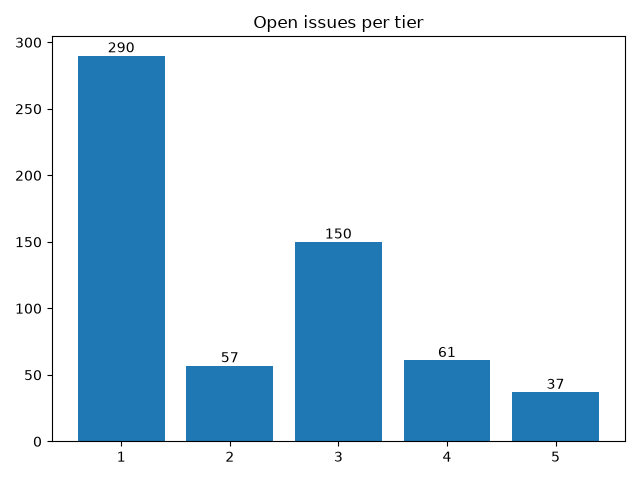
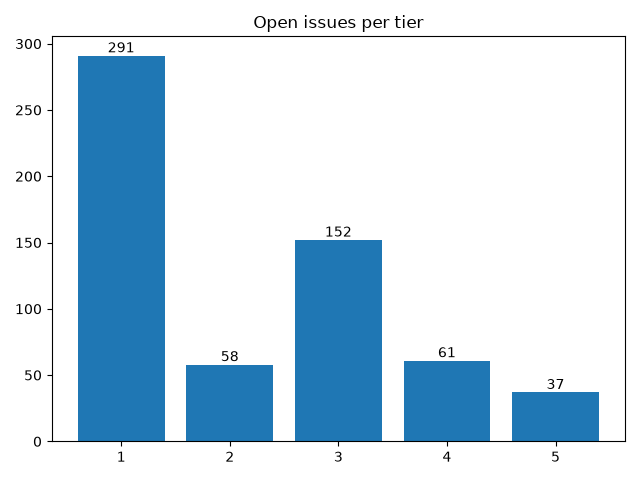
Apply automatic changes

diff --git a/docs/analytics.html b/docs/analytics.html
@@ -99,7 +99,7 @@ td .material-icons { display:inline-flex; vertical-align: top; font-size:1.1rem;
 						</tr>
 						<tr>
 							<td>Jul</td>
-							<td>4</td>
+							<td>8</td>
 							<td>4</td>
 						</tr>
 					</table>
@@ -130,15 +130,15 @@ td .material-icons { display:inline-flex; vertical-align: top; font-size:1.1rem;
 						</tr>
 						<tr>
 							<td>
-								<a href="http://github.com/notofonts/nastaliq/issues">nastaliq</a>
+								<a href="http://github.com/notofonts/arabic/issues">arabic</a>
 							</td>
 							<td>27</td>
 						</tr>
 						<tr>
 							<td>
-								<a href="http://github.com/notofonts/arabic/issues">arabic</a>
+								<a href="http://github.com/notofonts/nastaliq/issues">nastaliq</a>
 							</td>
-							<td>26</td>
+							<td>27</td>
 						</tr>
 						<tr>
 							<td>
@@ -156,7 +156,7 @@ td .material-icons { display:inline-flex; vertical-align: top; font-size:1.1rem;
 							<td>
 								<a href="http://github.com/notofonts/math/issues">math</a>
 							</td>
-							<td>16</td>
+							<td>17</td>
 						</tr>
 						<tr>
 							<td>
@@ -197,13 +197,13 @@ td .material-icons { display:inline-flex; vertical-align: top; font-size:1.1rem;
 				<tr>
 					<td>2</td>
 					<td>
-						<a href="http://github.com/notofonts/chakma/issues">chakma</a>,  						<a href="http://github.com/notofonts/dogra/issues">dogra</a>,  						<a href="http://github.com/notofonts/duployan/issues">duployan</a>,  						<a href="http://github.com/notofonts/georgian/issues">georgian</a>,  						<a href="http://github.com/notofonts/limbu/issues">limbu</a>,  						<a href="http://github.com/notofonts/mandaic/issues">mandaic</a>,  						<a href="http://github.com/notofonts/mongolian/issues">mongolian</a>,  						<a href="http://github.com/notofonts/old-hungarian-ui/issues">old-hungarian-ui</a>,  						<a href="http://github.com/notofonts/pau-cin-hau/issues">pau-cin-hau</a>,  						<a href="http://github.com/notofonts/tagalog/issues">tagalog</a>,  						<a href="http://github.com/notofonts/tamil/issues">tamil</a>,  						<a href="http://github.com/notofonts/toto/issues">toto</a>,  						<a href="http://github.com/notofonts/yi/issues">yi</a> 
+						<a href="http://github.com/notofonts/chakma/issues">chakma</a>,  						<a href="http://github.com/notofonts/dogra/issues">dogra</a>,  						<a href="http://github.com/notofonts/duployan/issues">duployan</a>,  						<a href="http://github.com/notofonts/limbu/issues">limbu</a>,  						<a href="http://github.com/notofonts/mandaic/issues">mandaic</a>,  						<a href="http://github.com/notofonts/mongolian/issues">mongolian</a>,  						<a href="http://github.com/notofonts/old-hungarian-ui/issues">old-hungarian-ui</a>,  						<a href="http://github.com/notofonts/pau-cin-hau/issues">pau-cin-hau</a>,  						<a href="http://github.com/notofonts/tagalog/issues">tagalog</a>,  						<a href="http://github.com/notofonts/tamil/issues">tamil</a>,  						<a href="http://github.com/notofonts/toto/issues">toto</a>,  						<a href="http://github.com/notofonts/yi/issues">yi</a> 
 					</td>
 				</tr>
 				<tr>
 					<td>3</td>
 					<td>
-						<a href="http://github.com/notofonts/ethiopic/issues">ethiopic</a>,  						<a href="http://github.com/notofonts/inscriptional-parthian/issues">inscriptional-parthian</a>,  						<a href="http://github.com/notofonts/kaithi/issues">kaithi</a>,  						<a href="http://github.com/notofonts/manichaean/issues">manichaean</a>,  						<a href="http://github.com/notofonts/oriya/issues">oriya</a>,  						<a href="http://github.com/notofonts/thaana/issues">thaana</a>,  						<a href="http://github.com/notofonts/tifinagh/issues">tifinagh</a>,  						<a href="http://github.com/notofonts/znamenny/issues">znamenny</a> 
+						<a href="http://github.com/notofonts/ethiopic/issues">ethiopic</a>,  						<a href="http://github.com/notofonts/georgian/issues">georgian</a>,  						<a href="http://github.com/notofonts/inscriptional-parthian/issues">inscriptional-parthian</a>,  						<a href="http://github.com/notofonts/kaithi/issues">kaithi</a>,  						<a href="http://github.com/notofonts/manichaean/issues">manichaean</a>,  						<a href="http://github.com/notofonts/oriya/issues">oriya</a>,  						<a href="http://github.com/notofonts/thaana/issues">thaana</a>,  						<a href="http://github.com/notofonts/tifinagh/issues">tifinagh</a>,  						<a href="http://github.com/notofonts/znamenny/issues">znamenny</a> 
 					</td>
 				</tr>
 				<tr>
@@ -227,13 +227,13 @@ td .material-icons { display:inline-flex; vertical-align: top; font-size:1.1rem;
 				<tr>
 					<td>7</td>
 					<td>
-						<a href="http://github.com/notofonts/gurmukhi/issues">gurmukhi</a>,  						<a href="http://github.com/notofonts/hentaigana/issues">hentaigana</a>,  						<a href="http://github.com/notofonts/modi/issues">modi</a>,  						<a href="http://github.com/notofonts/old-hungarian/issues">old-hungarian</a> 
+						<a href="http://github.com/notofonts/gurmukhi/issues">gurmukhi</a>,  						<a href="http://github.com/notofonts/modi/issues">modi</a>,  						<a href="http://github.com/notofonts/old-hungarian/issues">old-hungarian</a> 
 					</td>
 				</tr>
 				<tr>
 					<td>8</td>
 					<td>
-						<a href="http://github.com/notofonts/canadian-aboriginal/issues">canadian-aboriginal</a>,  						<a href="http://github.com/notofonts/dives-akuru/issues">dives-akuru</a>,  						<a href="http://github.com/notofonts/kannada/issues">kannada</a> 
+						<a href="http://github.com/notofonts/canadian-aboriginal/issues">canadian-aboriginal</a>,  						<a href="http://github.com/notofonts/dives-akuru/issues">dives-akuru</a>,  						<a href="http://github.com/notofonts/hentaigana/issues">hentaigana</a>,  						<a href="http://github.com/notofonts/kannada/issues">kannada</a> 
 					</td>
 				</tr>
 				<tr>
@@ -262,9 +262,9 @@ td .material-icons { display:inline-flex; vertical-align: top; font-size:1.1rem;
 							<td>
 									<a href="http://github.com/notofonts/latin-greek-cyrillic/issues">latin-greek-cyrillic</a>: 161, 
 
-									<a href="http://github.com/notofonts/nastaliq/issues">nastaliq</a>: 27, 
+									<a href="http://github.com/notofonts/arabic/issues">arabic</a>: 27, 
 
-									<a href="http://github.com/notofonts/arabic/issues">arabic</a>: 26, 
+									<a href="http://github.com/notofonts/nastaliq/issues">nastaliq</a>: 27, 
 
 									<a href="http://github.com/notofonts/hebrew/issues">hebrew</a>: 18, 
 
@@ -306,7 +306,7 @@ td .material-icons { display:inline-flex; vertical-align: top; font-size:1.1rem;
 
 									<a href="http://github.com/notofonts/ethiopic/issues">ethiopic</a>: 3, 
 
-									<a href="http://github.com/notofonts/georgian/issues">georgian</a>: 2, 
+									<a href="http://github.com/notofonts/georgian/issues">georgian</a>: 3, 
 
 									<a href="http://github.com/notofonts/limbu/issues">limbu</a>: 2
 							</td>
@@ -316,13 +316,13 @@ td .material-icons { display:inline-flex; vertical-align: top; font-size:1.1rem;
 							<td>
 									<a href="http://github.com/notofonts/symbols/issues">symbols</a>: 19, 
 
-									<a href="http://github.com/notofonts/math/issues">math</a>: 16, 
+									<a href="http://github.com/notofonts/math/issues">math</a>: 17, 
 
 									<a href="http://github.com/notofonts/syriac/issues">syriac</a>: 9, 
 
 									<a href="http://github.com/notofonts/canadian-aboriginal/issues">canadian-aboriginal</a>: 8, 
 
-									<a href="http://github.com/notofonts/hentaigana/issues">hentaigana</a>: 7, 
+									<a href="http://github.com/notofonts/hentaigana/issues">hentaigana</a>: 8, 
 
 									<a href="http://github.com/notofonts/modi/issues">modi</a>: 7, 
 
